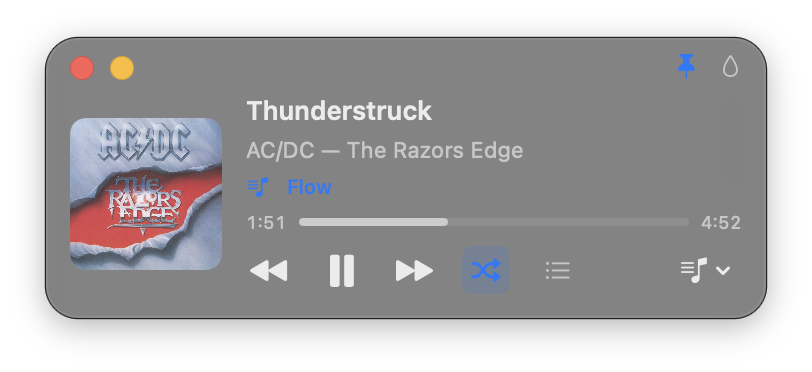
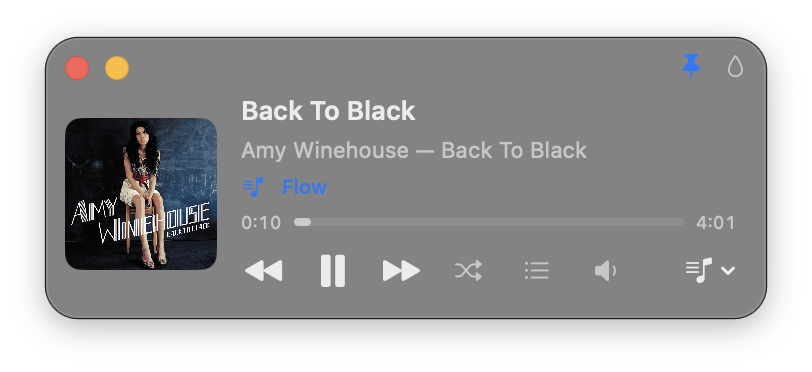
README: screenshot with the volume button
Claude-Session: https://claude.ai/code/session_01UcWHDXcB8gYpCVkw1WUm9C

diff --git a/README.md b/README.md
@@ -10,7 +10,7 @@
 </p>
 
 <p align="center">
-  <img src="docs/screenshot.png" width="400" alt="MiniDeck playing Thunderstruck by AC/DC from the Flow playlist, with shuffle on and the pin and glass buttons in the corner">
+  <img src="docs/screenshot.png" width="400" alt="MiniDeck playing Back To Black by Amy Winehouse from the Flow playlist, with the volume, song list and playlist buttons">
 </p>
 
 ---
